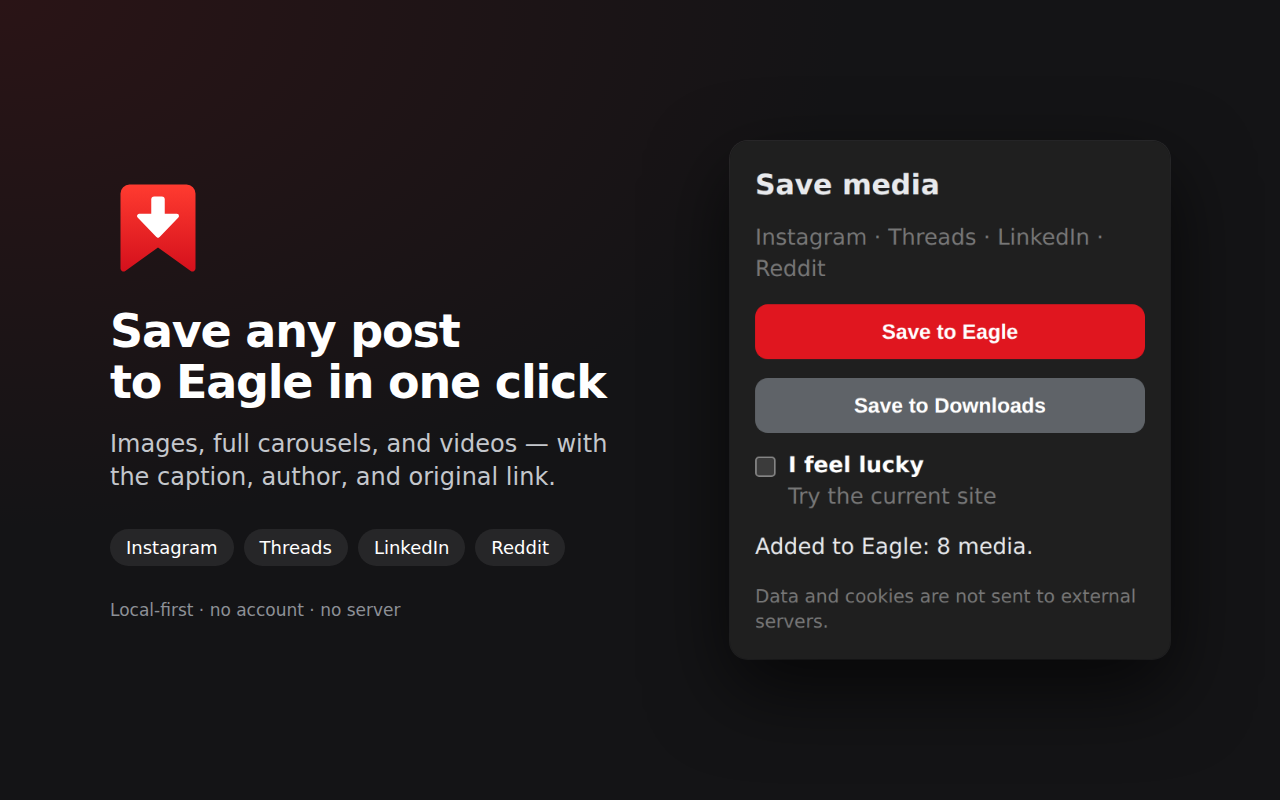
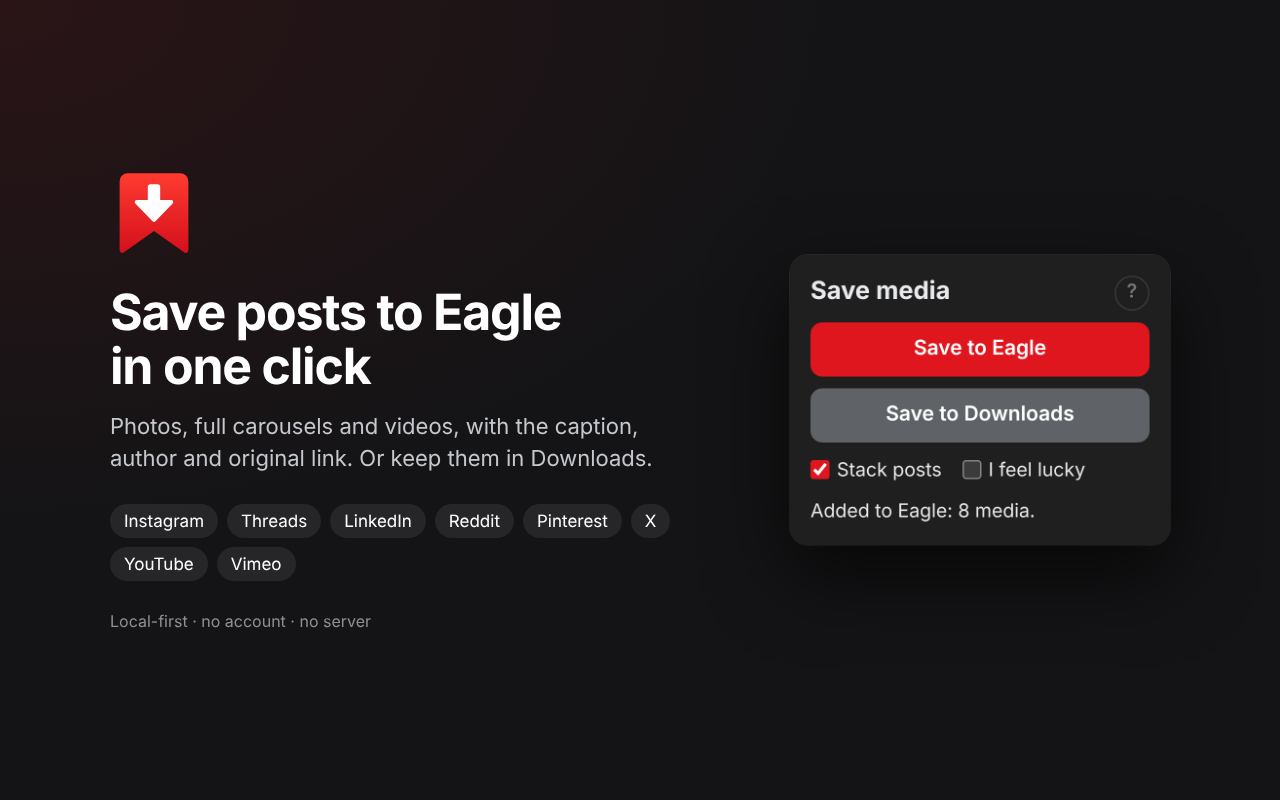
Store listing and privacy policy for 0.2.5
Vimeo downloads via api.vimeo.com, Stacks paragraph, new 1280x800 screenshots.

Claude-Session: https://claude.ai/code/session_01BWzGfyfB5TgAkvLPHxc4Ut

diff --git a/PRIVACY.md b/PRIVACY.md
@@ -1,6 +1,6 @@
 # Privacy Policy
 
-_Last updated: 2026-10-21_
+_Last updated: 2026-11-17_
 
 Local Social Media Archiver (the Chrome extension and the Eagle Companion plugin) does not collect, store, sell, or transmit personal data to the developer or to any third party.
 
@@ -13,7 +13,7 @@ When you click **Save to Eagle** or **Save to Downloads**, the extension reads t
 - **Save to Eagle** sends the media URLs and post details to the Eagle app on your own computer through its local API (`http://localhost:41595`). Nothing leaves your computer except the media downloads themselves.
 - **Save to Downloads** saves the media files and a `.txt` note (author, post link, caption) to the Local Social Archive folder in your Downloads.
 - On X, videos are fetched through X's public embed service (`cdn.syndication.twimg.com`), the same service that shows X posts embedded on other websites. Only the post's id is sent. Chrome asks for this access the first time you save from X, and photos still save if you decline.
-- On Vimeo, the extension reads the video's player settings from `player.vimeo.com` to find a downloadable file, and saves the video only when its owner allows downloads. Chrome asks for this access the first time you save from Vimeo.
+- On Vimeo, the extension asks Vimeo for the files the video's owner allows to download, the same way the page's Download button does: from the video page, with your signed-in session, through `api.vimeo.com`. If that gives nothing, it reads the player settings from `player.vimeo.com` (Chrome asks for this access the first time you save from Vimeo). Without the owner's permission to download, only the cover is saved.
 - Media files are downloaded directly from the website that serves them (for example Instagram's or LinkedIn's media servers), using your existing browser session, as when you view them.
 
 ## What is not done

diff --git a/docs/chrome-web-store.md b/docs/chrome-web-store.md
@@ -37,8 +37,10 @@ Save images and videos from the post you're viewing to Eagle or your Downloads f
 > • Pinterest pins at original size, including videos and idea pins: only the open pin, never related or promoted pins
 > • X (Twitter) photos at original size and videos
 > • YouTube: saves a video's cover image with its title, channel, and link as a reference. The video itself is not downloaded.
-> • Vimeo: the same reference card, plus the video file when its owner allows downloads
+> • Vimeo: the video file when its owner allows downloads, otherwise the same reference card
 > • "I feel lucky": try any other site, with permission requested only for that site
+>
+> Stacks for Eagle (optional): every post gets its own folder and a cover, so a smart folder shows one tile per post instead of loose slides. A short guide opens the first time you turn it on.
 >
 > Private by design. No account, no server, no analytics. The extension works with your existing browser session and talks to Eagle only through its local API on your computer.
 >
@@ -49,6 +51,8 @@ Save images and videos from the post you're viewing to Eagle or your Downloads f
 
 **Category:** Tools. Workflow & Planning also fits.
 **Language:** English
+
+**Screenshots for 0.2.5:** `docs/store/screenshot-1280x800.png` (popup) and `docs/store/screenshot-stacks-1280x800.png` (stacks).
 
 **Graphic assets:**
 | Field | File |
